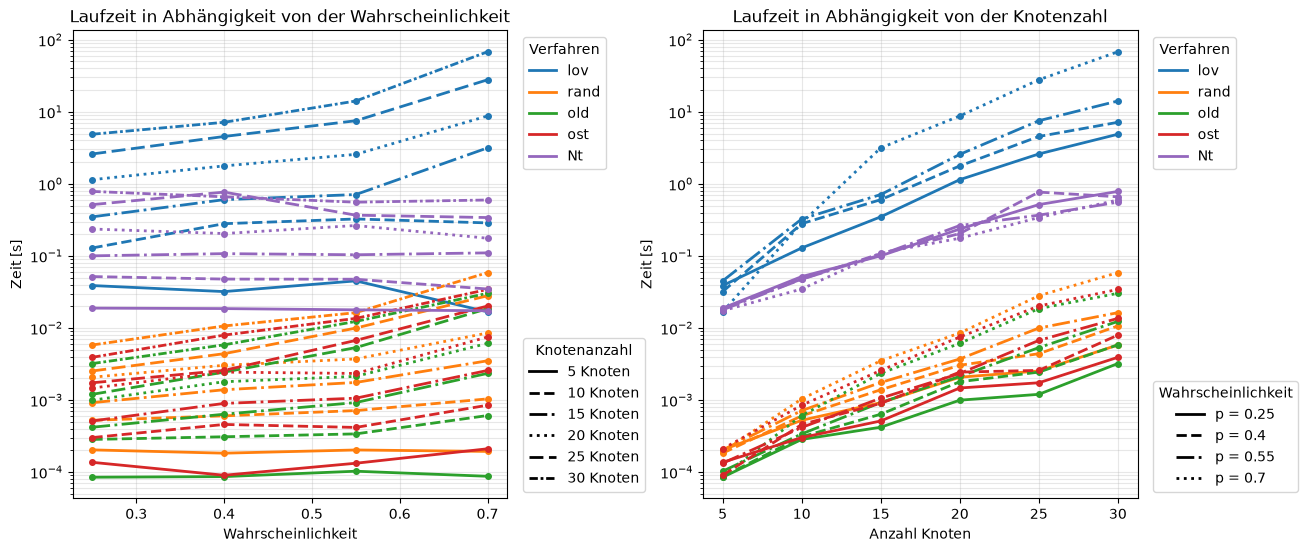
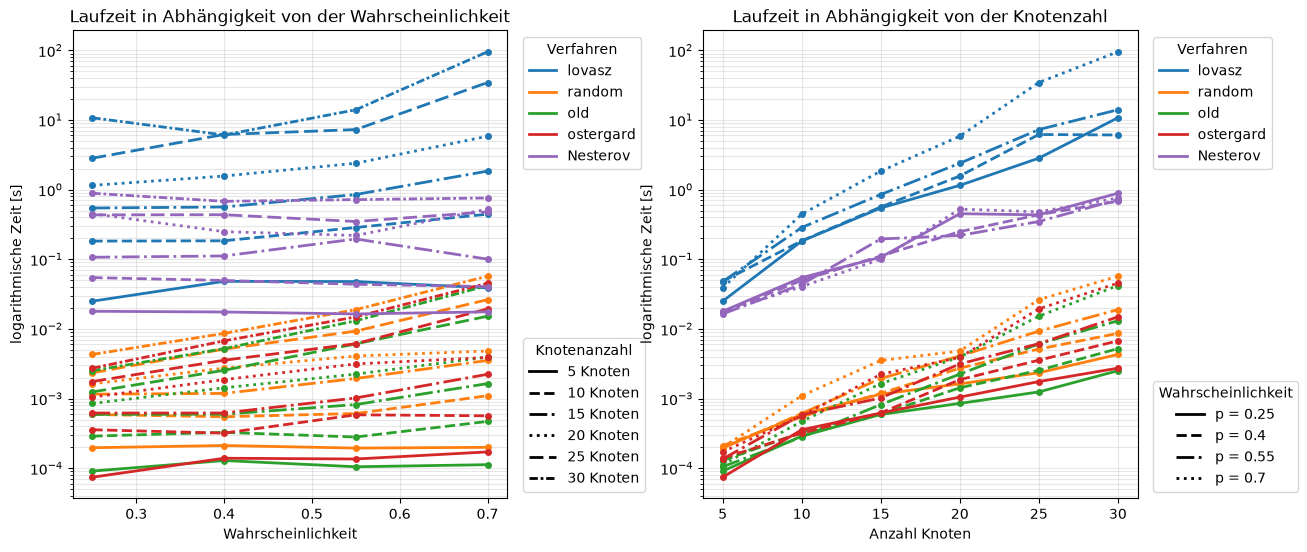
kleine Anpassungen

diff --git a/max_clique_solve_lovasz.py b/max_clique_solve_lovasz.py
@@ -205,7 +205,7 @@ class MaxCliqueSolve:
         """
         Initiale untere Schranke für die Cliquenzahl via Kantendichte:
 
-            LB = ceil(1 / (1 - delta)),   delta = 2m / n^2
+            LB = (1 / (1 - delta)),   delta = 2m / n^2
         """
         delta = (2 * len(self.edges)) / (self.n ** 2)
         lb = self.n if delta >= 1.0 else 1.0 / (1.0 - delta)
@@ -353,8 +353,8 @@ class MaxCliqueSolve:
         """
         Branch-and-Bound mit Lovász-Schranke.
 
-        Bound:    size + theta(G_bar[U]) <= LB(G)  ->  prunen
-                  LB(G) = ceil(1 / (1 - delta_G))  (Kantendichte-Schranke)
+        Bound:    size + theta(G_bar[U]) < LB(G)  ->  prunen
+                  LB(G) = (1 / (1 - delta_G))  (Kantendichte-Schranke)
         Branching: zufälliger Knoten aus der via Algorithm 2 konstruierten Clique.
         """
     
@@ -367,7 +367,7 @@ class MaxCliqueSolve:
         while len(U) != 0:
 
 
-            if size + self._lovasz_rest(U) <= self.lb:
+            if size + self._lovasz_rest(U) < self.lb:
                 return
 
             vi = random.choice(self._rounding(U, self._q_sdp, self._Q_sdp))
